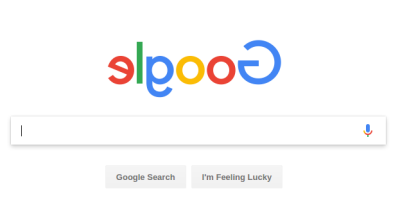
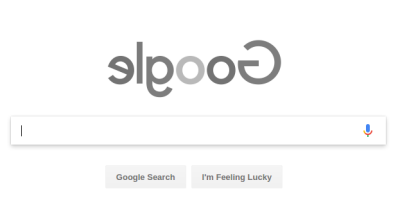
Update README.md

Changed region(s): [[0.27, 0.1739, 0.72, 0.4928]]

diff --git a/chrome-extension/scripts/add-your-scripts-to-this-folder.js b/chrome-extension/scripts/add-your-scripts-to-this-folder.js
@@ -1,0 +1,2 @@
+
+console.info("Hello world!");

diff --git a/README.md b/README.md
@@ -1,101 +1,76 @@
 
 ![Witchcraft](art/witchcraft-banner.png)
 
-It's GreaseMonkey for developers!
+Think Greasemonkey for developers.
 
-Witchcraft is a Google Chrome extension that executes JavaScript and CSS scripts located under your local `~/.witchcraft` folder by matching their names with the domain of the page being loaded.
+Witchcraft is a Google Chrome extension that allows loading custom JavaScript and CSS scripts right from the file system, automatically injecting them into selected pages.
 
-If you navigate to `https://www.google.com`, Witchcraft will execute `~/.witchcraft/google.com.js` and `~/.witchcraft/google.com.css`.
+It works by matching the current page domain against script file names available in the scripts folder. For instance, if one navigates to `https://www.google.com`, Witchcraft will try to load and run `google.com.js` and `google.com.css`.
 
-This makes it super easy to spruce up your favorite pages using JavaScript and your own stylesheets.
+It also tries all domain levels. For instance, if one accesses `https://gist.github.com`, Witchcraft will try to load, in this order: `com.js`, `github.com.js` and `gist.github.com.js`... and the same goes for CSS. All domain levels for which a script is found will be loaded, and not just the first one.
 
-On subdomains such as `gist.github.com`, Witchcraft will try to load `~/.witchcraft/gist.github.com.js`, as well as `~/.witchcraft/github.com.js` and `~/.witchcraft/com.js`. The same goes with CSS: `~/.witchcraft/gist.github.com.css`, `~/.witchcraft/github.com.css` and `~/.witchcraft/com.css` will be tried.
+Whenever you edit or create new scripts, there's no need to reload anything other than the page where the scripts are supposed to run. It makes it way easier than other popular scripting tools, like Greasemonkey or Tampermonkey.
 
-GreaseMonkey user scripts are great, but you need to publish them somewhere and re-publish after making modifications. With Witchcraft, just add or edit files in `~/.witchcraft`. Script changes will immediately be seen by the extension; no need to reload anything.
+Witchcraft works on Windows, Mac and Linux.
 
-## What if I want to inject jQuery (or any other library?)
+## What if I want to inject jQuery (or any other library, for that matter?)
 
-Use `@include` directives. Inside your main script (say, `google.com.js`), write:
+Use Witchcraft's `@include` directive. Anywhere in your script (say, `google.com.js`), type:
 
     // @include jquery.js
 
-And then just add `jquery.js` to your `~/.witchcraft` folder. You can any number of scripts you want. Included scripts will also have their `@include` directives parsed in a recursive fashion. Dependency cycles (e.g., `foo` includes `bar`, which includes `foo`) won't break the parser and the resulting script will be `<contents of bar>\n<contents of foo>`.
+Then just include `jquery.js` in your scripts folder. You can include any number of scripts you want. Included scripts will also have their `@include` directives parsed in recursive fashion. Dependency cycles (e.g., `foo.js` includes `bar.js`, which includes `foo.js`) will be automatically resolved and each script won't be loaded more than once.
 
 # Example
 
-    > cat ~/.witchcraft/google.com.js
+Sample Javascript:
 
-    document.querySelectorAll('img')
-        .forEach(img => img.style.transform = 'scaleX(-1)');
+    > cat google.com.js
 
-Or you could also just:
+    window.addEventListener("load" => {
+        document.querySelectorAll("img")
+            .forEach(img => img.style.transform = "scaleX(-1)");
+    });
 
-    > cat ~/.witchcraft/google.com.css
+Sample CSS:
+
+    > cat google.com.css
 
     img {
-        transform: scaleX(-1);
+        filter: grayscale(100%);
     }
 
-![defaced avatars](elgoog.png)
+![](elgoog.png)
 
-# How to install
+# How to install and use
 
-This extension is composed of two parts: the Chrome extension itself and a local HTTP server running on Node.js. Follow these two steps below to install it.
+## Step 1: install Chrome extension
 
-## Step 1: start the server
+Get it from the Chrome Web Store [here](https://chrome.google.com/webstore/detail/witchcraft-inject-js-and/hokcepcfcicnhalinladgknhaljndhpc).
 
-First make sure you have [Node.js](https://nodejs.org) installed.
+*You can also install it as a development extension (look for the extension under the folder `chrome-extension/`).*
 
-Go to the root of this repository and simply run:
+## Step 2: add your scripts
 
-    node witchcraft
+Scripts must reside inside the extension's folder, under `scripts/`. To locate the extension folder:
 
-*Note: you may want to add it to your shell's login script, otherwise you'll need to restart it every time you reboot your system. A sample script you could try:*
+- Windows: `\Users\<USER-NAME>\AppData\Local\Google\Chrome\User Data\Default\Extensions\hokcepcfcicnhalinladgknhaljndhpc\scripts`
+- Mac: `~/Library/Application\ Support/Google/Chrome/Default/Extensions/hokcepcfcicnhalinladgknhaljndhpc/scripts`
+- Linux: `~/.config/google-chrome/Default/Extensions/hokcepcfcicnhalinladgknhaljndhpc/scripts`
 
-    #!/usr/bin/env bash
-    nohup node /path/to/witchcraft/witchcraft.js &
-
-## Step 2: install Chrome extension
-
-Either [download the official release from the Chrome Web Store](https://chrome.google.com/webstore/detail/witchcraft-inject-js-and/hokcepcfcicnhalinladgknhaljndhpc) or install it as a development extension (look for it under the folder `chrome-extension/`).
-
-After both the server is running and the extension is installed, you're good to go. Write your kick-ass scripts and just put them under `~/.witchcraft`.
+You may want to create a shortcut to it (e.g.: at `~/.witchcraft`) to make it easier to find the scripts folder.
 
 # How it works
 
-Chrome extensions* can't access the local file system, so Witchcraft runs a tiny web server on port 3131 that serves files out of `~/.witchcraft`.
+The Chrome extension listens for every frame being loaded in Chrome, parsing its location's host name. Then, for every domain level combination, it looks for JavaScript and CSS files under the extension's scripts folder.
 
-The Witchcraft Chrome extension then makes ajax requests to
+Chrome extensions have a very strict policy regarding acess to the file system. Witchcraft's first version required a web server to run locally so it could provide access to the scripts folder. Since it's way easier to not have to start a web server, I decided to move the scripts folder inside the extension folder, from where it can freely load files, thus removing the necessity of having a server part.
 
-* http://localhost:3131/css/www.google.com
-* http://localhost:3131/js/www.google.com
+On a side note, there's also the concept of a Chrome *app*, which has more permissions than an *extension*. The problem is that Google is shutting down Chrome apps for all platforms but ChromeOS, so making an app is not an option anymore.
 
-any time you hit a page on `www.google.com`, for example, and executes the returned JavaScript. As for CSS, it will append any relevant CSS files to the page's head tag.
-
-Our tiny server, upon receiving a request to `www.google.com`, looks for these scripts, in this exact order:
-
-* `~/.witchcraft/com.css`
-* `~/.witchcraft/google.com.css`
-* `~/.witchcraft/www.google.com.css`
-* `~/.witchcraft/com.js`
-* `~/.witchcraft/google.com.js`
-* `~/.witchcraft/www.google.com.js`
-
-And it returns a bundled version of all scripts it can find for each type (one bundle for Javascript and another one for CSS), ready to be executed by the extension. So, if there were a `com.js` and a `www.google.com.js`, the resulting script would be a concatenation of them. The same with CSS.
-
-Contextual note: Witchcraft is my rendition of [defunkt](https://github.com/defunkt)'s original tool, [dotjs](https://github.com/defunkt/dotjs). Although I never got to actually use his implementation, I really wanted something like that. My approach works just the same as his, but it's way easier to install and should work for any platform that is able to run Node.js.
-
-Defunkt's original dot.js server also had another drawback: it ran over HTTPS, since Chrome complains if you request something over HTTP on a HTTPS page. This issue is called "mixed content" (see [this explanation](https://developers.google.com/web/fundamentals/security/prevent-mixed-content/what-is-mixed-content)).
-
-Witchcraft, on the other hand, allows us to request HTTP just fine, though. Chrome extensions have a foreground environment, where you have access to a page's content, and a background one, where your scripts run in a exclusive process created just for your extension. This same background process is shared among all your foreground instances. It also happens that the background process can request whatever it wants, including HTTP (non-secure) requests; and this is just what we need. Witchcraft's foreground script fires requests to the background one, which then proceeds to requesting to Witchcraft's local server via HTTP. When the response gets back, the background script calls the foreground with the scripts' contents.
+Contextual note: Witchcraft is my rendition of [defunkt](https://github.com/defunkt)'s original tool, [dotjs](https://github.com/defunkt/dotjs). Although I never got to actually use dotjs, I really wanted something like that. My approach works just the same as his, but it's way easier to install (dotjs required a local server and SSL certificates) and works on Windows, Mac and Linux (dotjs only worked on Mac).
 
 # Credits
 
-* [defunkt](https://github.com/defunkt) and his [dotjs](https://github.com/defunkt/dotjs);
+* [defunkt](https://github.com/defunkt), author of [dotjs](https://github.com/defunkt/dotjs) (and GitHub co-founder);
 * witch and witch hat icons by [Freepik](https://www.flaticon.com/authors/freepik), downloaded from [Flaticon](https://www.flaticon.com).
-
-# Other approaches
-
-[Matthew Hadley](https://github.com/diffsky) made [an experiment](https://github.com/diffsky/chromedotfiles) using the [chrome.tabs API](https://developer.chrome.com/extensions/tabs) to load js and css without the need of a web server. The drawback is that you have to reload the extension every time a new script is added or updated. That's why I decided to have a web server running; I want script loading to be as seamless as possible.
-
-There's also [Jonathan Cremin](https://github.com/kudos)'s [Punkjs](https://github.com/kudos/punkjs), but I tried and it is currently not working (the app breaks when you select the .js folder) and I think that between extension+server and extension+app, I prefer the former. You can just schedule the server to run every time your system boots and then forget about it. The Chrome app approach expects you to open the app every time you open your browser. Besides, it seems to be no longer maintained as well.
